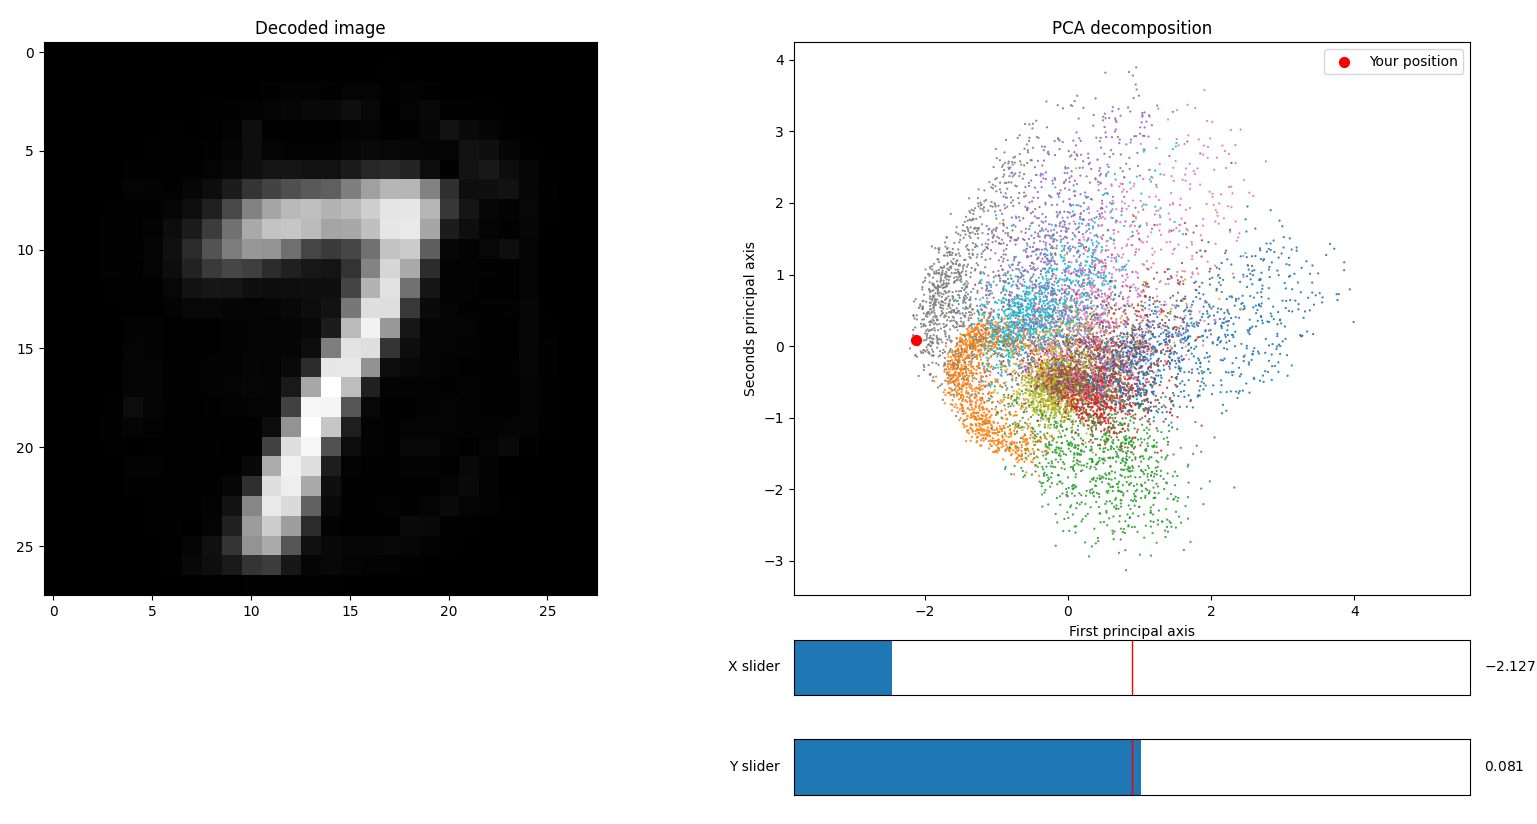
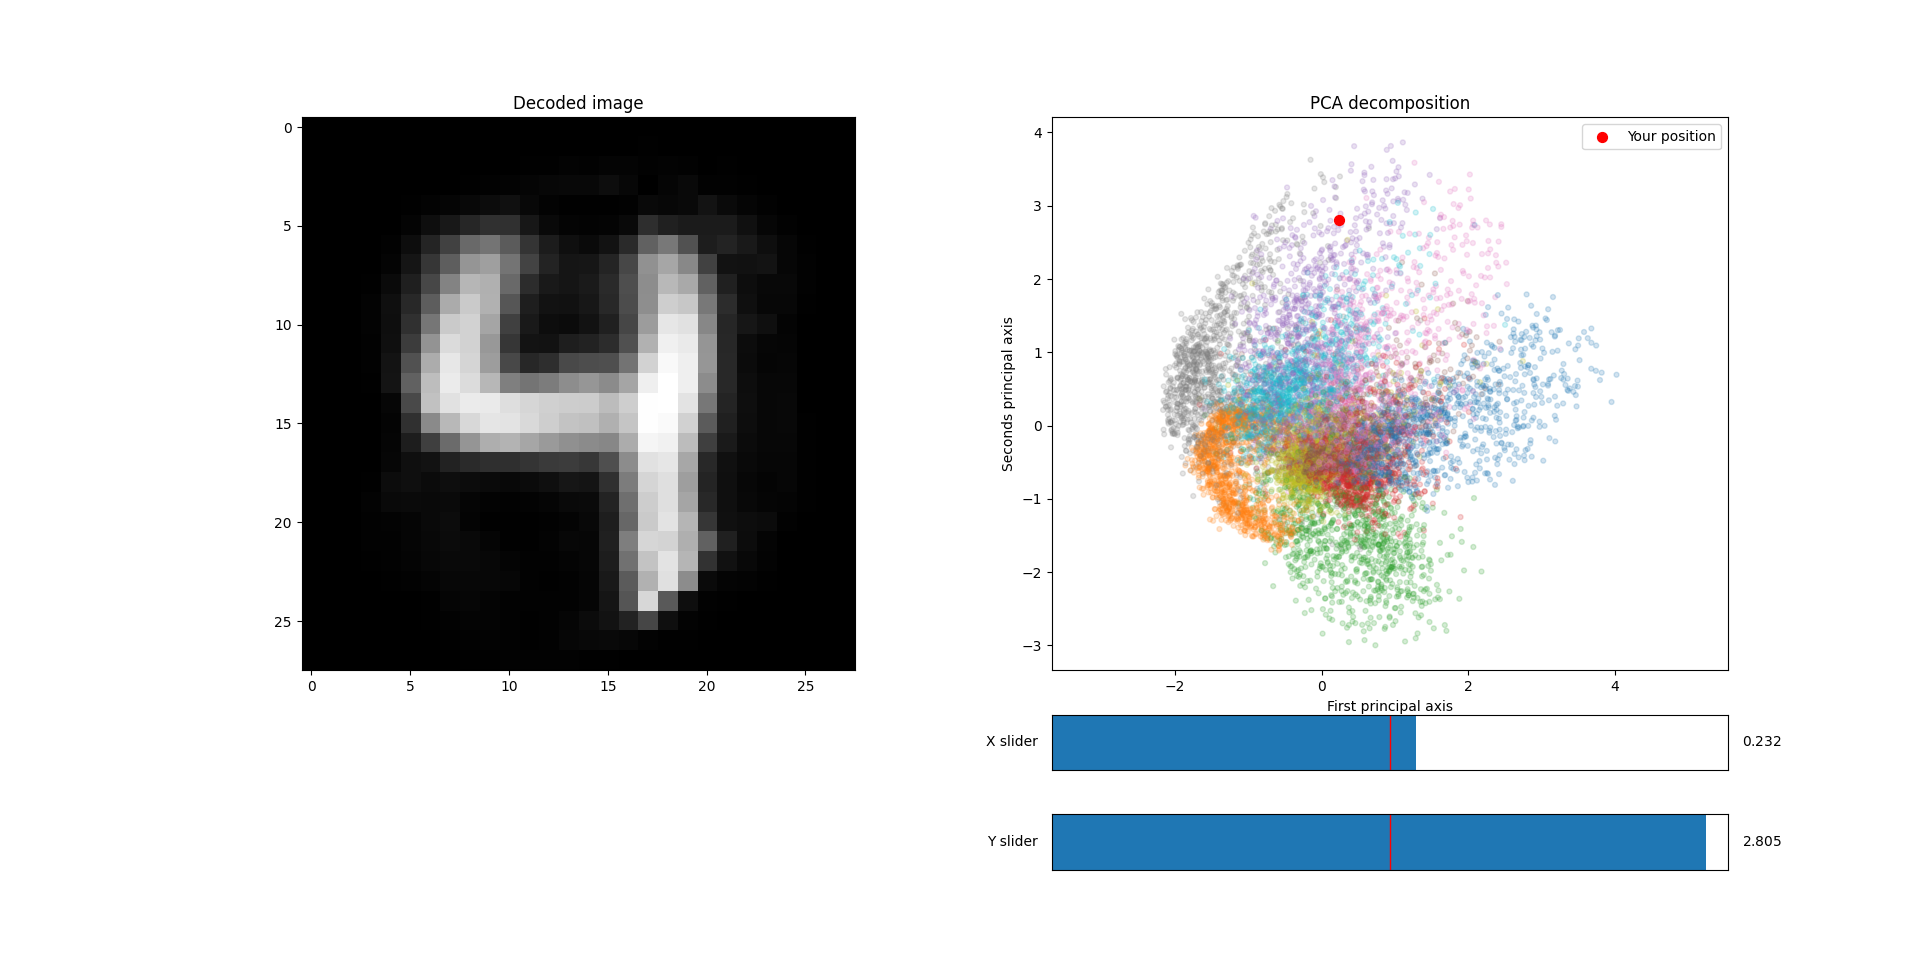
updated pictures

diff --git a/README.md b/README.md
@@ -3,5 +3,6 @@
  Just run `autoEncoder.py` and you'll be able to see the embedding of the MNIST dataset interactively. However, I've only made the first two principal components explorable.
 
 ![Screenshot of the simple matplotlib interface](Screenshot.png)
+![Denoising](bad_denoising.png)
 
-I made this for fun because it's cool.
+Made for fun.
